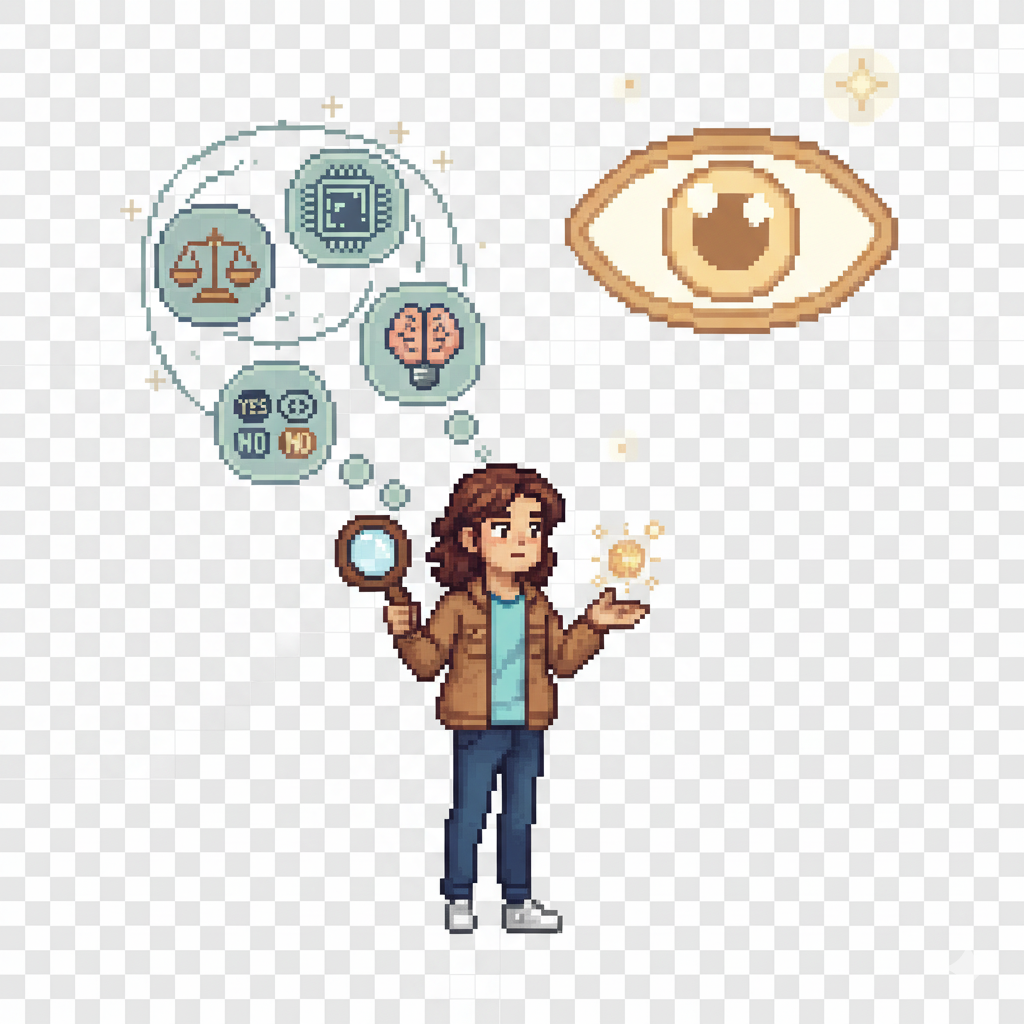
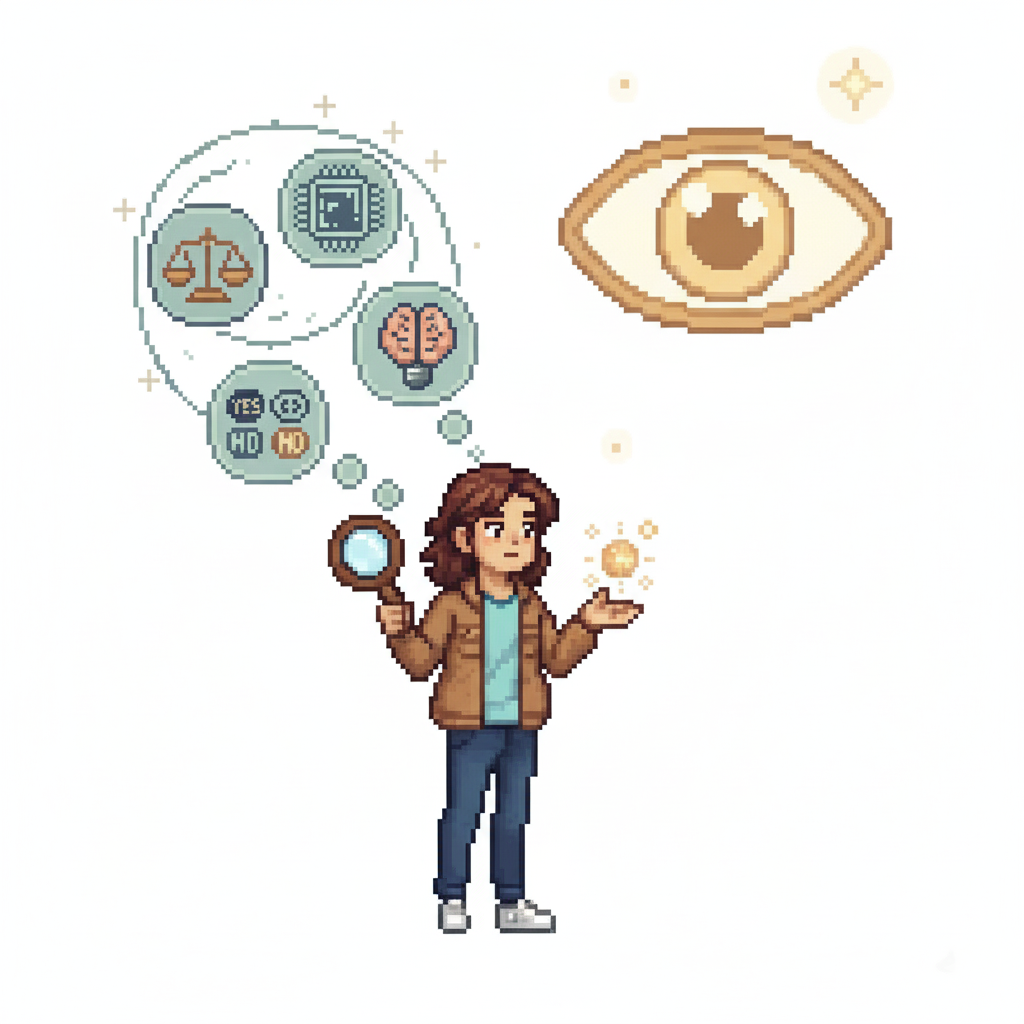
Fix: Corrigir posição do nome na capa, mover Conselho para página 2 e atualizar imagens dos talentos

diff --git a/client/src/pages/Game.tsx b/client/src/pages/Game.tsx
@@ -178,9 +178,13 @@ export default function Game() {
         content: [
           // Página 1 - Capa (apenas nome do candidato)
           {
+            text: '',
+            margin: [0, 600, 0, 0]
+          },
+          {
             text: name,
             fontSize: 14,
-            absolutePosition: { x: 70, y: 750 },
+            margin: [0, 0, 0, 0],
             color: '#000000'
           },
           { text: '', pageBreak: 'after' },
@@ -263,16 +267,15 @@ export default function Game() {
             alignment: 'justify',
             lineHeight: 1.5
           },
-          { text: '', pageBreak: 'after' },
 
-          // Página 3 - Conselho de Carreira
+          // Conselho de Carreira (mesma página)
           {
             text: 'Conselho de Carreira',
             fontSize: 20,
             bold: true,
             color: '#8B1538',
             alignment: 'center',
-            margin: [0, 20, 0, 20]
+            margin: [0, 30, 0, 20]
           },
           ...resultsData.careerAdvice.split('\n\n').map(paragraph => ({
             text: paragraph,
